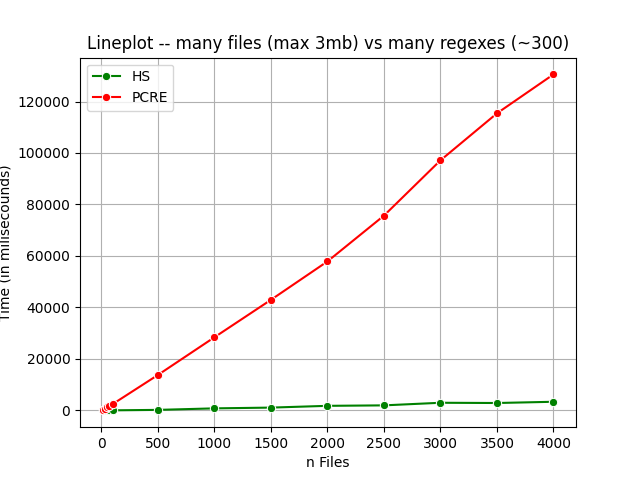
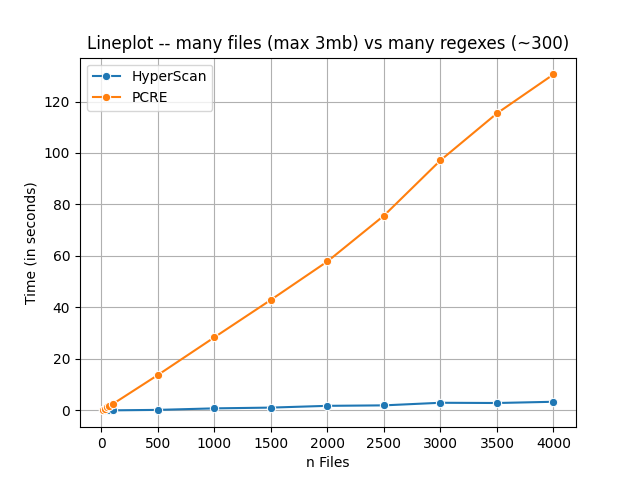
Another change

diff --git a/raport/HyperScan_vs_PCRE.tex b/raport/HyperScan_vs_PCRE.tex
@@ -394,10 +394,12 @@ Do testów wykorzystano 100 wątków, a każdy program miał 3 podejścia do pro
 \subsubsection{Wnioski z wykresu}
 
 \begin{itemize}[leftmargin=*, itemsep=2pt]
-    \item Do około 100 plików, zarówno HS, jak i PCRE radziły sobie podobnie, z czasem wykonywania od 2 do 200\,ms.
+    \item Do około 100 plików, zarówno HS, jak i PCRE radziły sobie podobnie, z czasem wykonywania od 2 do 200\,milisekund.
     \item Wraz ze wzrostem liczby plików czas wykonywania PCRE rośnie znacznie szybciej niż HS.
     \item Przyspieszenie PCRE jest zdecydowanie większe niż przyspieszenie HS.
+    \item Czas dzialania HS dla 4000 plikow nie przekracza 4s, a czas dzialania PCRE przewyzsza 120 sekund.
     \item HS lepiej radzi sobie z łączeniem skomplikowanych regexów przy pracy na wielu plikach.
+
 \end{itemize}
 
 

diff --git a/test/perf_test_v2/test6/plot.py b/test/perf_test_v2/test6/plot.py
@@ -9,8 +9,8 @@ df_pcre['time'] = df_pcre['time']/1000
 
 print(df_hs.columns)
 
-sns.lineplot(data=df_hs, x='files', y='time', marker='o', c='green', label='HyperScan')
-sns.lineplot(data=df_pcre, x='files', y='time', marker='o', c='red', label='PCRE')
+sns.lineplot(data=df_hs, x='files', y='time', marker='o', label='HyperScan')
+sns.lineplot(data=df_pcre, x='files', y='time', marker='o', label='PCRE')
 plt.xlabel('n Files')
 plt.ylabel('Time (in seconds)')
 plt.title('Lineplot -- many files (max 3mb) vs many regexes (~300)')
